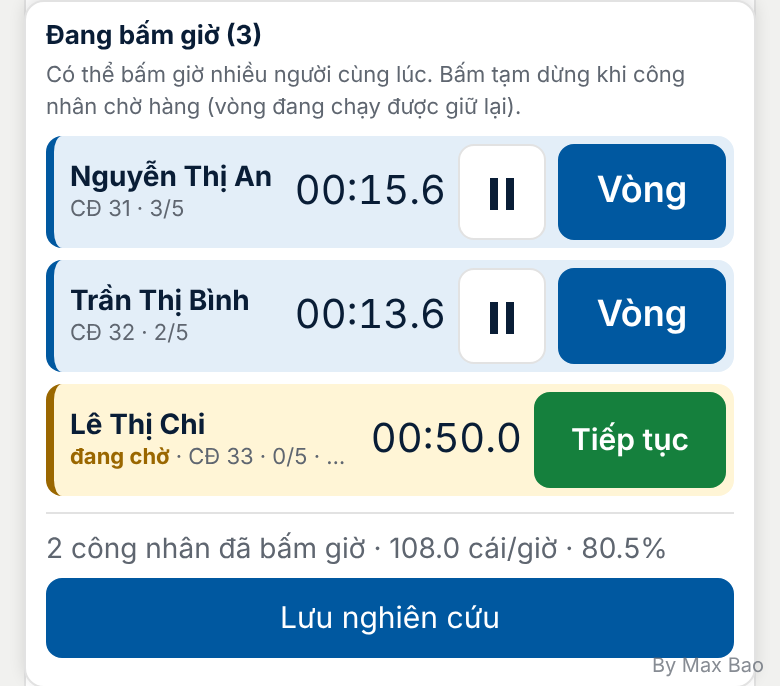
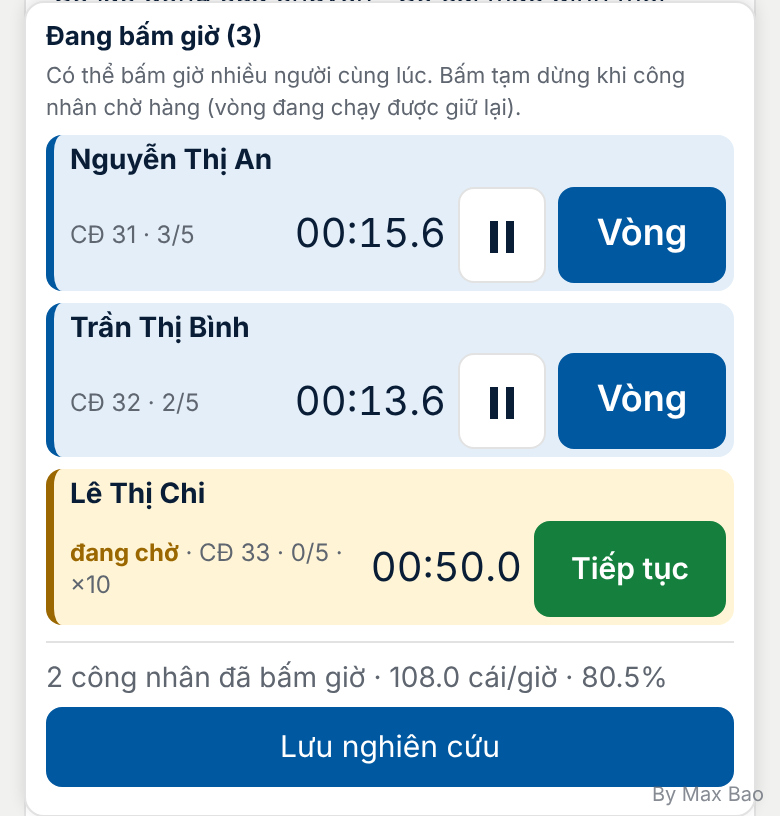
Dock: show the worker's full name on its own line
Long names were cut off. The name now takes the full width of the row; the
operation, lap time and buttons are on the line below. Guide screenshot
updated.

Claude-Session: https://claude.ai/code/session_01HSftGS2br8JvXyeQHZJyFD

Changed region(s): [[0.0615, 0.0306, 0.9846, 1.0]]

diff --git a/index.html b/index.html
@@ -64,7 +64,8 @@ td.l,th.l{text-align:left}
 .dk-list{display:grid;gap:6px;max-height:38vh;overflow-y:auto}
 .dk-row{display:grid;grid-template-columns:minmax(0,1fr) auto auto auto;gap:6px;align-items:center;padding:4px 4px 4px 8px;border-radius:8px;background:var(--sel);border-left:4px solid var(--accent)}
 .dk-row.wait{background:var(--warnbg);border-left-color:var(--warn);grid-template-columns:minmax(0,1fr) auto auto}
-.dk-who{min-width:0;cursor:pointer;line-height:1.25}.dk-who b,.dk-who small{display:block;white-space:nowrap;overflow:hidden;text-overflow:ellipsis}.dk-who small{color:var(--muted);font-size:11px}.dk-who small .dk-w{display:inline;color:var(--warn)}
+.dk-name{grid-column:1/-1;font-weight:700;line-height:1.25;cursor:pointer;overflow-wrap:anywhere;margin-bottom:-2px}
+.dk-who{min-width:0;cursor:pointer;line-height:1.3;color:var(--muted);font-size:12px}.dk-who .dk-w{color:var(--warn)}
 .dk-t{font-size:20px;font-variant-numeric:tabular-nums;min-width:68px;text-align:right}
 .dk-row button{margin:0;width:auto;touch-action:manipulation}
 .dk-lap{min-width:84px;min-height:48px;font-size:18px;font-weight:600}.dk-go{min-width:96px;min-height:48px;font-weight:600}
@@ -569,8 +570,9 @@ function updateDock() {
   box.hidden = !list.length; if (!list.length) { box.innerHTML = ''; return; }
   box.innerHTML = `<div class="dk-head"><b>${t('dkTitle')} (${list.length})</b><span class="muted">${t('dkHint')}</span></div><div class="dk-list">` + list.map(({ r, i }) => {
     const run = r.t0 !== null, n = Math.max(1, r.ln || 1);
-    return `<div class="dk-row ${run ? 'run' : 'wait'}"><div class="dk-who" onclick="openCard.add(${i});updateCards();focusCard(${i})"><b>${esc(r.name)}</b>`
-      + `<small>${run ? '' : `<b class="dk-w">${t('dkWait')}</b> · `}${t('opn')} ${esc(r.opText)} · ${piecesUsed(r)}/${goalOf(r)}${n > 1 ? ` · ×${n}` : ''}</small></div>`
+    const open = `onclick="openCard.add(${i});updateCards();focusCard(${i})"`;
+    return `<div class="dk-row ${run ? 'run' : 'wait'}"><div class="dk-name" ${open}>${esc(r.name)}</div>`
+      + `<div class="dk-who" ${open}>${run ? '' : `<b class="dk-w">${t('dkWait')}</b> · `}${t('opn')} ${esc(r.opText)} · ${piecesUsed(r)}/${goalOf(r)}${n > 1 ? ` · ×${n}` : ''}</div>`
       + `<div class="dk-t" id="dk${i}">${fmtT(elapsed(r) - r.lapAt)}</div>`
       + (run ? `<button class="dk-p sec" aria-label="${t('stop')}" onpointerdown="startStop(${i},event)"><i class="pz"></i></button><button class="dk-lap" onpointerdown="lap(${i},event)">${t('lap')}</button>`
              : `<button class="dk-go green" onpointerdown="startStop(${i},event)">${t('resume')}</button>`) + '</div>';

diff --git a/huong-dan/index.html b/huong-dan/index.html
@@ -286,7 +286,7 @@ footer { grid-column: 1 / -1; border-top: 1px solid var(--line); padding-top: 16
           </ul>
           <div class="note warn"><b>Đừng bấm quá nhiều người</b><span>Chỉ bấm cùng lúc những người bạn nhìn rõ được tay. Bấm Vòng trễ vài giây làm sai thời gian của vòng đó.</span></div>
         </div>
-        <figure><img src="img/29-dock.png" alt="Thanh Đang bấm giờ với ba công nhân" width="390" height="347" loading="lazy"><figcaption>Hai người đang chạy, Chi đang chờ hàng</figcaption></figure>
+        <figure><img src="img/29-dock.png" alt="Thanh Đang bấm giờ với ba công nhân" width="390" height="408" loading="lazy"><figcaption>Hai người đang chạy, Chi đang chờ hàng</figcaption></figure>
       </div>
 
       <div class="step">
